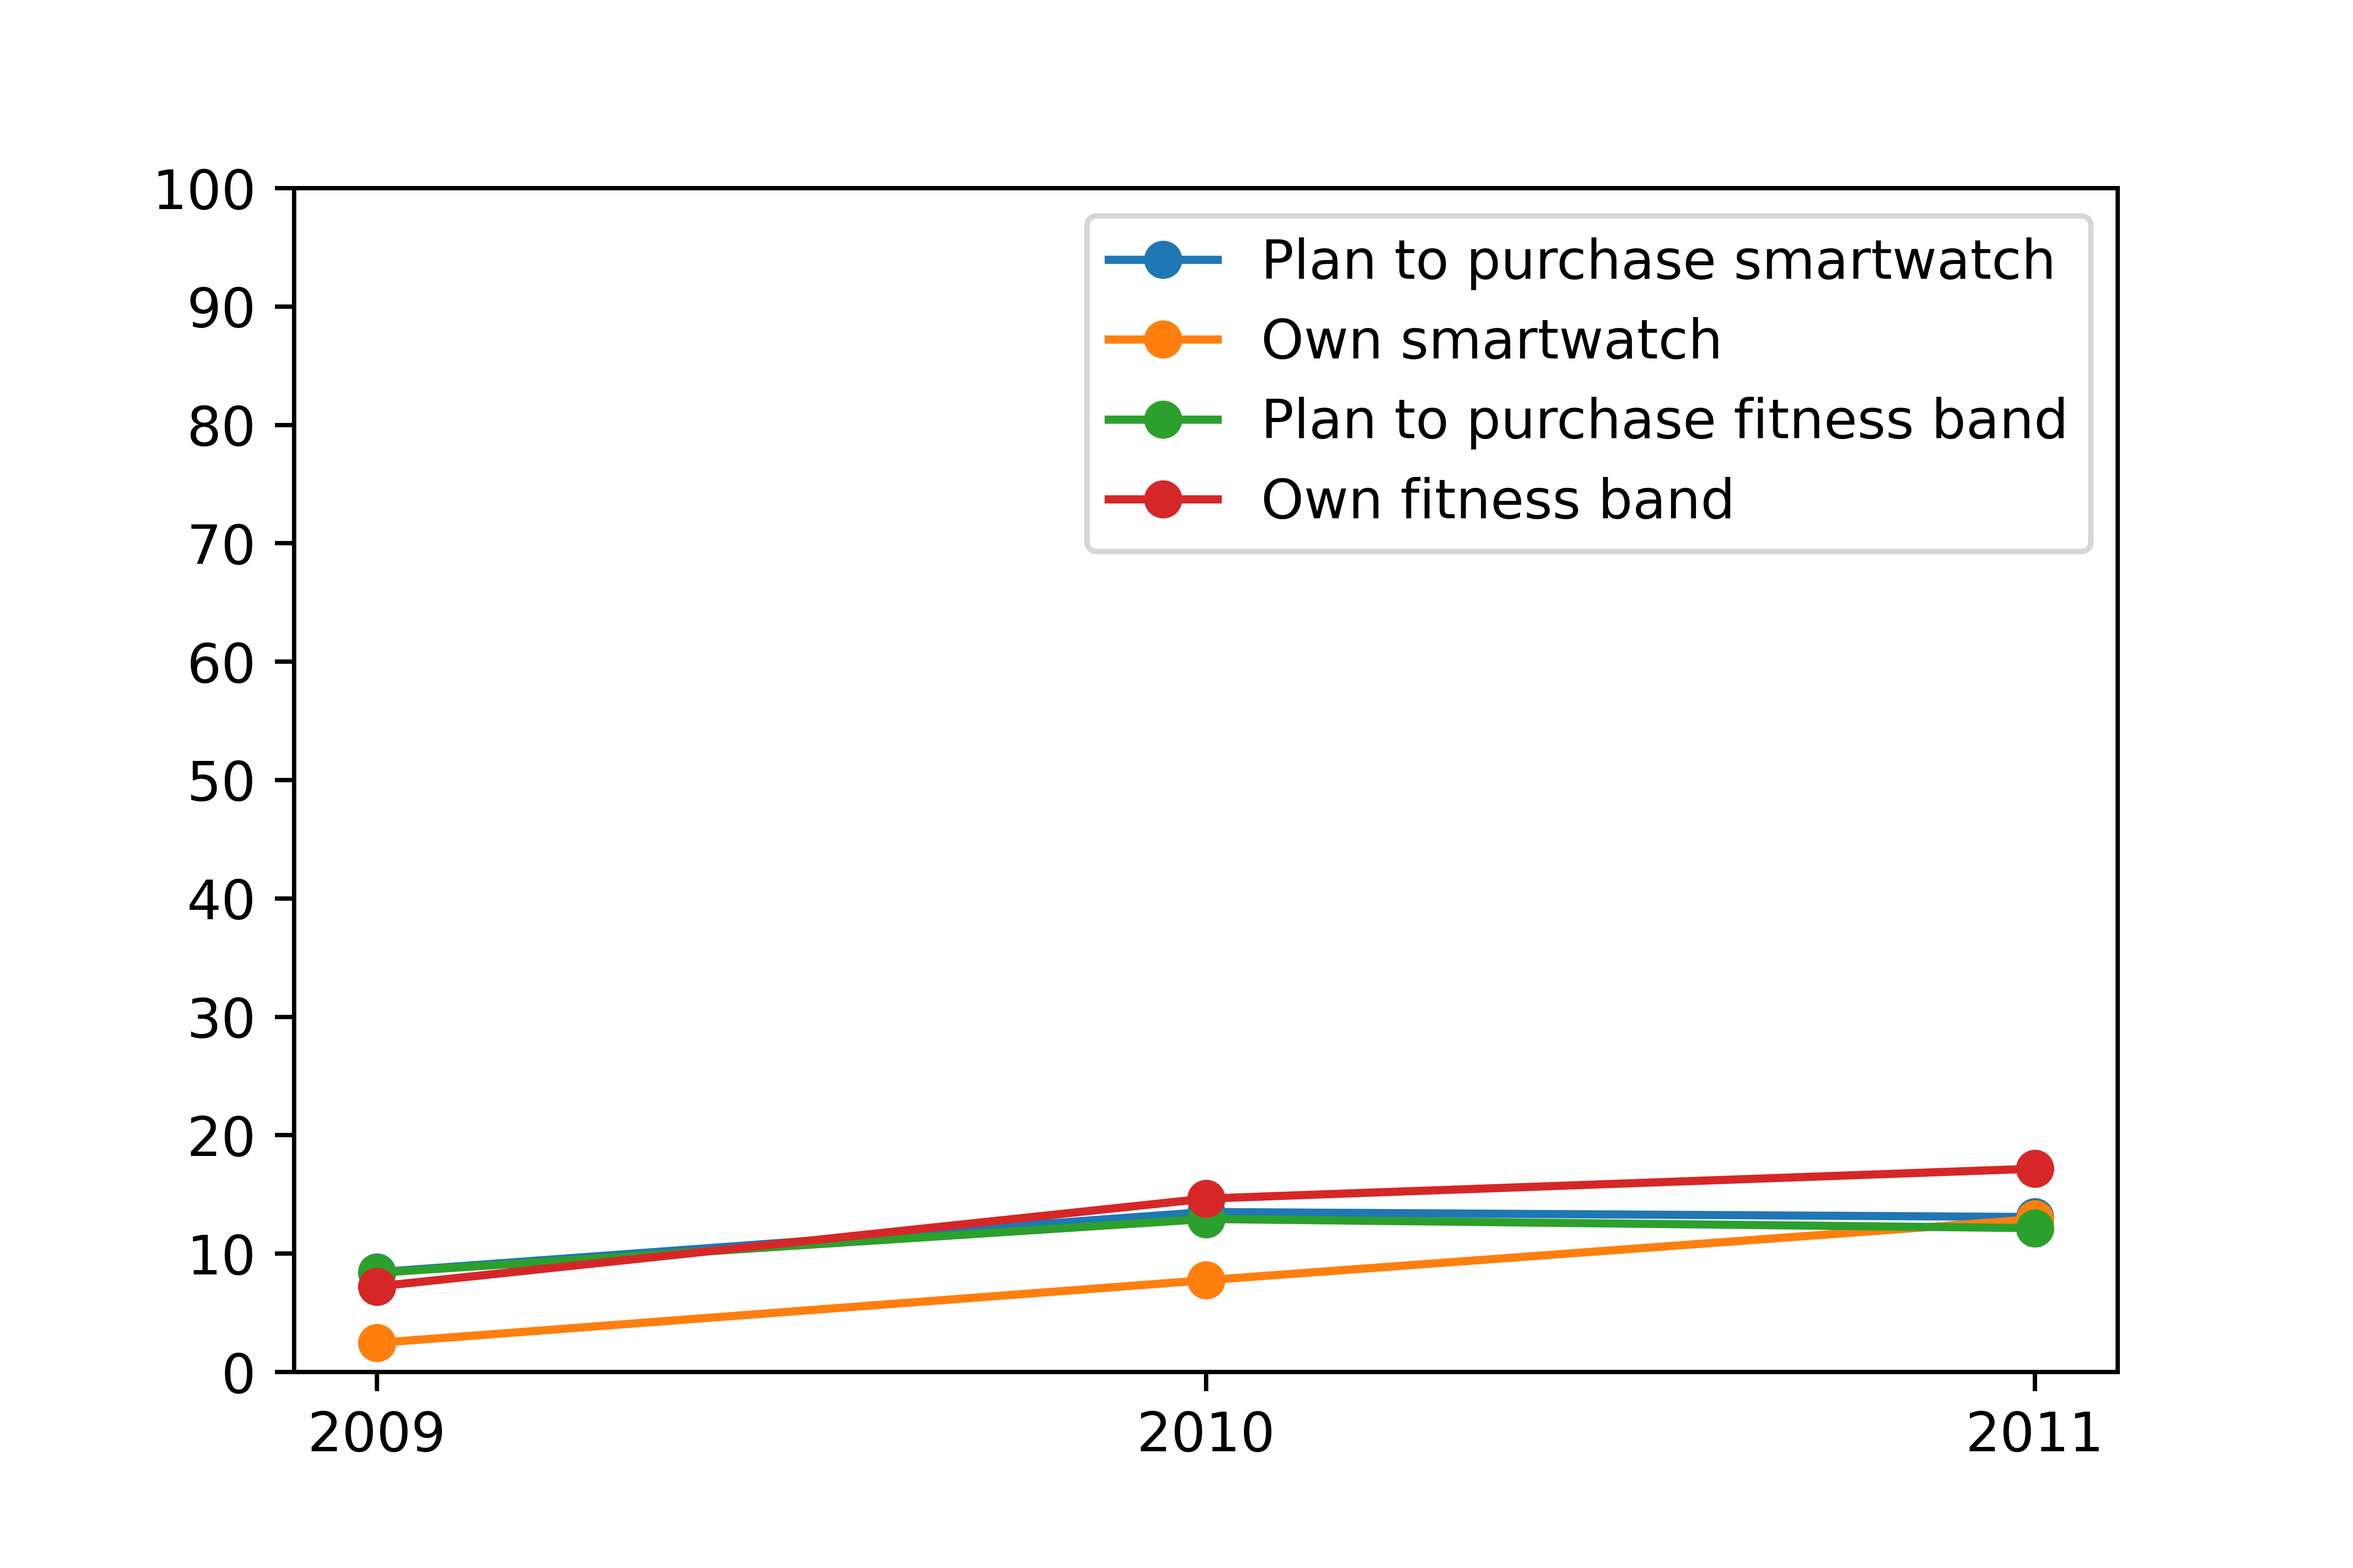
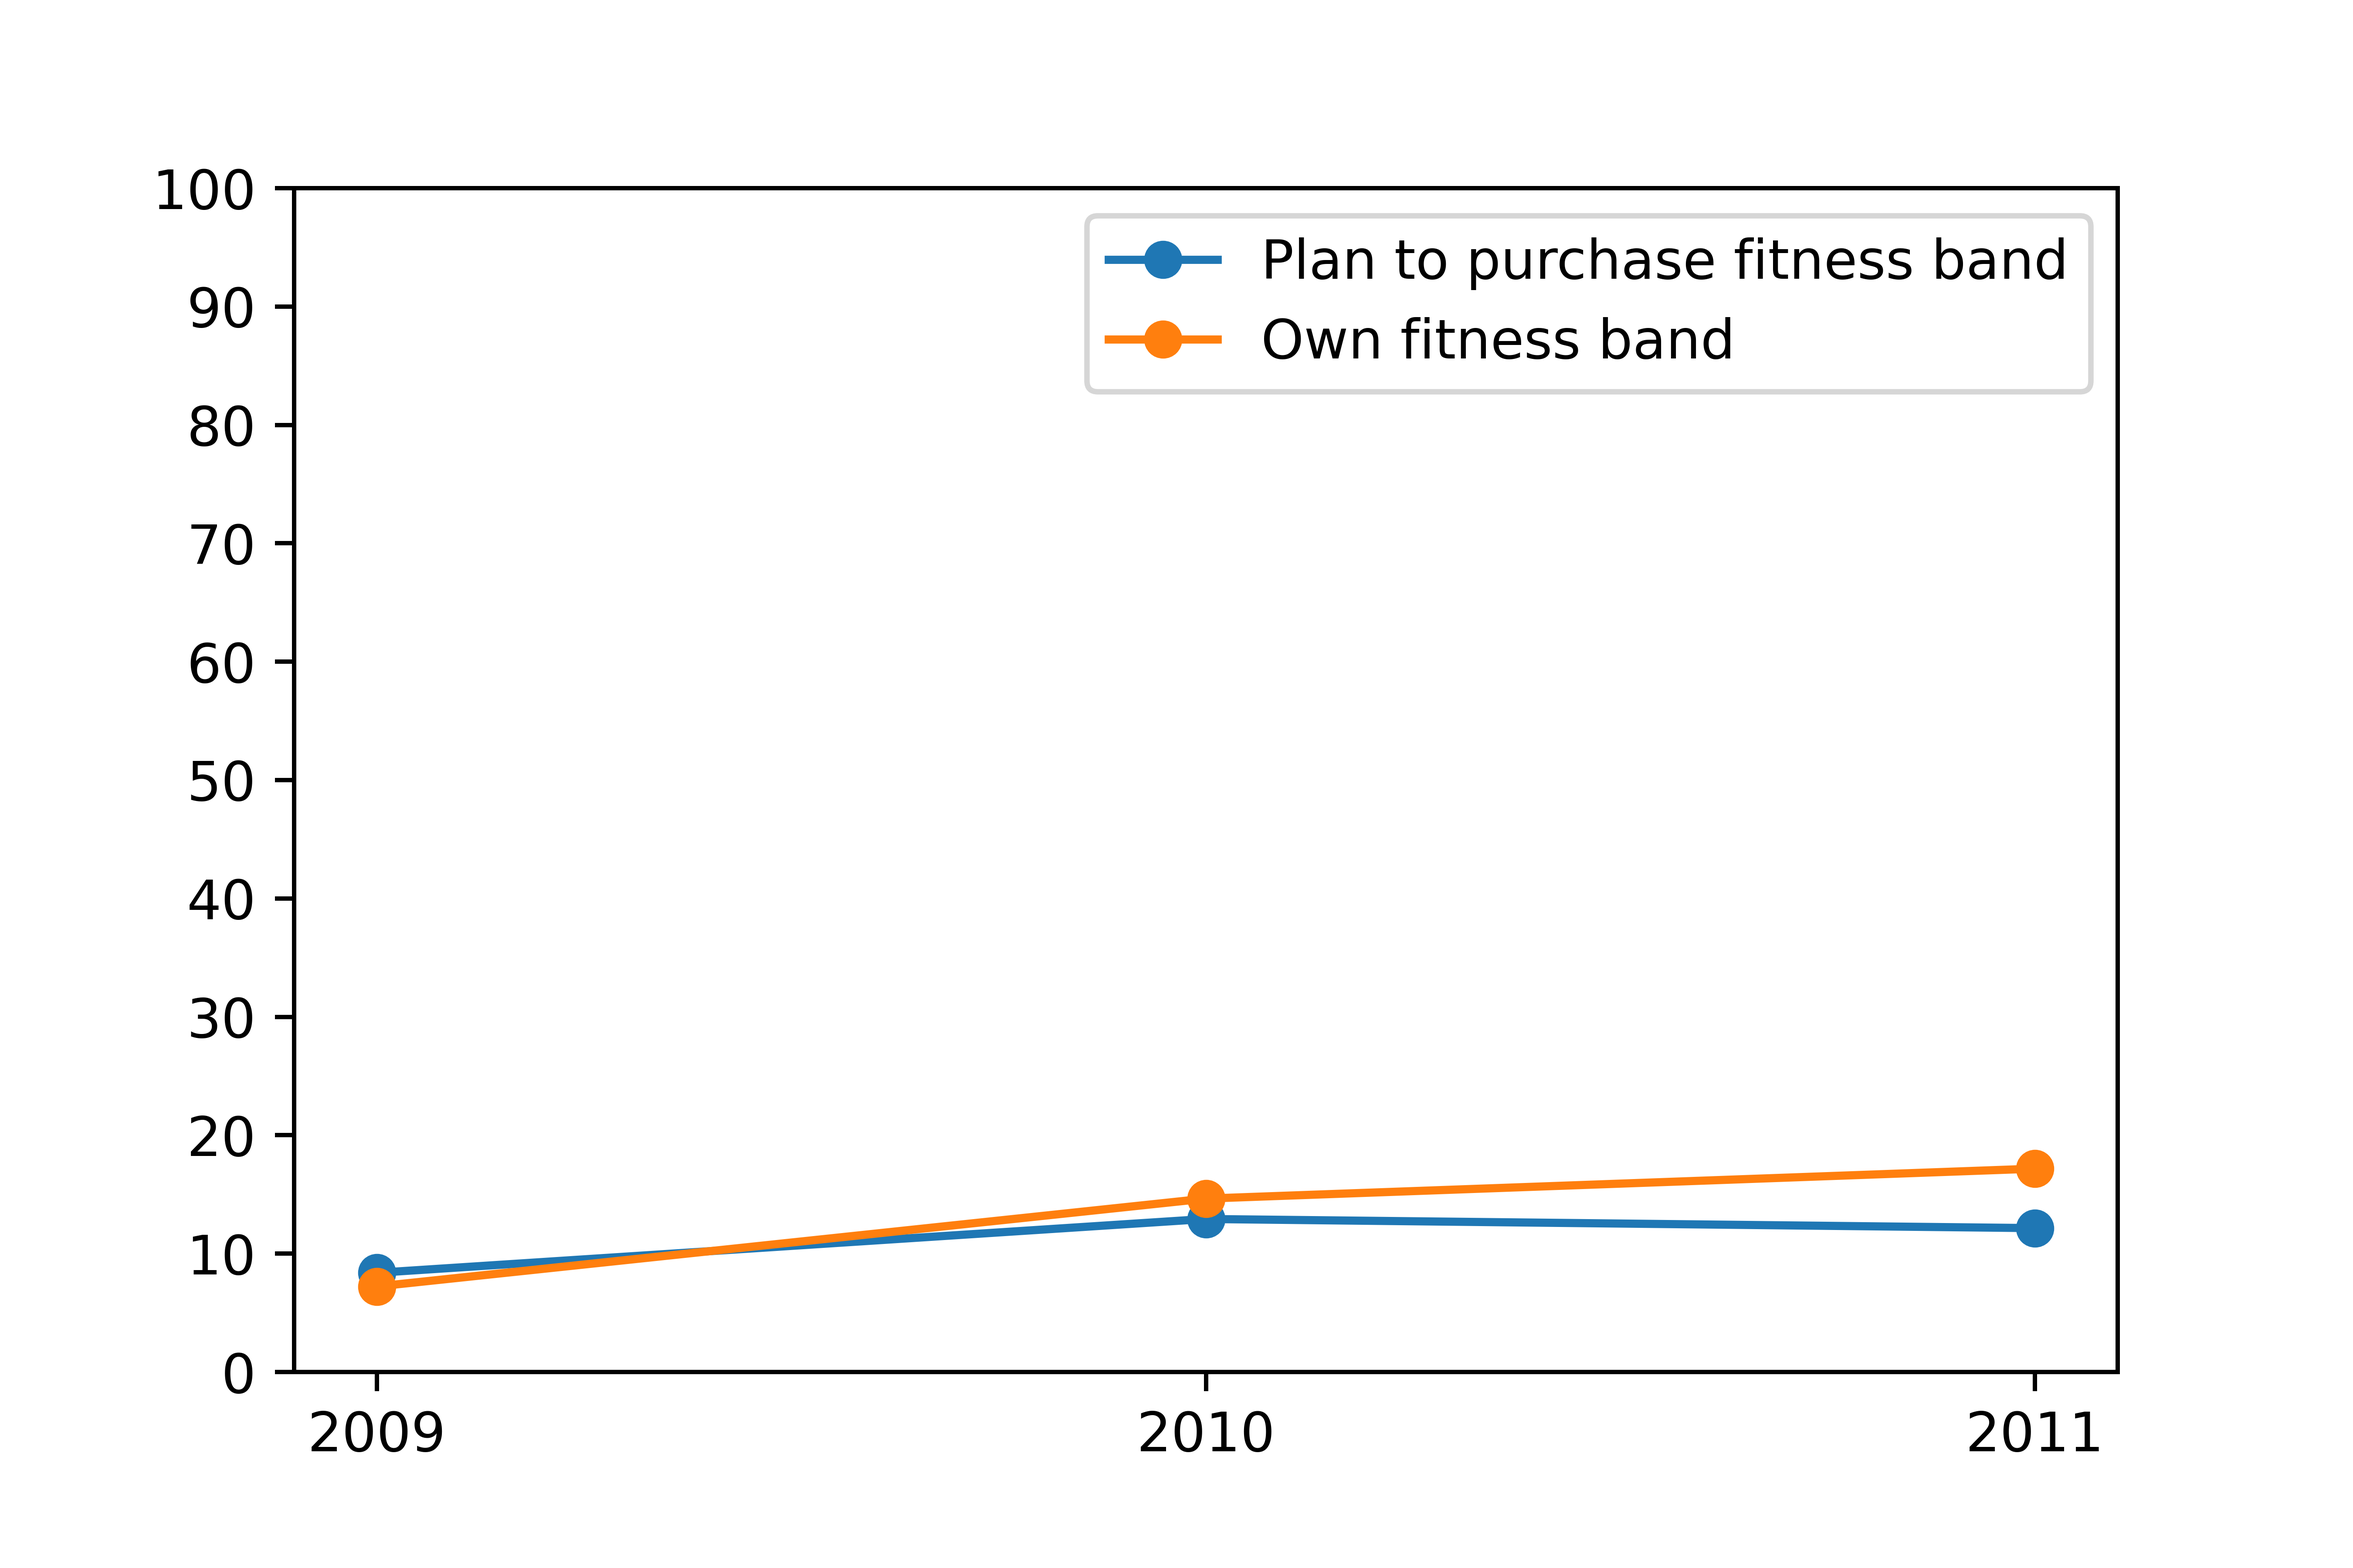
Added `plt.figure` to clear out old plots in eda.py

diff --git a/Final Project/eda.py b/Final Project/eda.py
@@ -103,6 +103,7 @@ for v in ['age_cat', 'gender', 'region', 'employment_status', 'race_ethnicity']:
 
 # Visualizations
 # Rise of wearables
+plt.figure()
 temp1 = dds_long.groupby('year')['plan_to_purchase_smartwatch'].value_counts().unstack()
 temp1['Total'] = temp1.Yes + temp1.No
 temp1['Yes'] = temp1.Yes / temp1.Total * 100
@@ -118,6 +119,7 @@ plt.yticks(np.arange(0, 101, 10))
 plt.legend()
 plt.savefig('Visualizations/smartwatch.png', dpi = 900)
 
+plt.figure()
 temp1 = dds_long.groupby('year')['plan_to_purchase_fitness_band'].value_counts().unstack()
 temp1['Total'] = temp1.Yes + temp1.No
 temp1['Yes'] = temp1.Yes / temp1.Total * 100
@@ -134,6 +136,7 @@ plt.legend()
 plt.savefig('Visualizations/fitness_band.png', dpi = 900)
 
 # Cord cutting
+plt.figure()
 temp1 = dds_long.groupby('year')['own_tv'].value_counts().unstack()
 temp1['Total'] = temp1.Yes + temp1.No
 temp1['Yes'] = temp1.Yes / temp1.Total * 100
